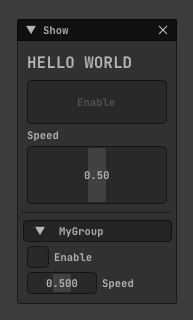
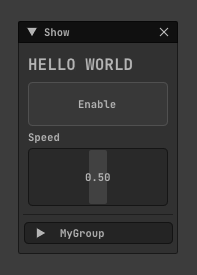
'

diff --git a/Examples/00_HelloWorld/src/ofApp.cpp b/Examples/00_HelloWorld/src/ofApp.cpp
@@ -16,7 +16,7 @@ void ofApp::draw()
             ui.Add(bEnable, OFX_IM_TOGGLE_BIG_BORDER_BLINK);
             ui.Add(speed, OFX_IM_HSLIDER);
             ui.AddSpacingSeparated();
-            ui.AddGroup(params, OFX_IM_GROUP_COLLAPSED);
+            ui.AddGroup(params, SurfingGuiGroupStyle_Collapsed);
 
             ui.EndWindow();
         }

diff --git a/Examples/00_HelloWorld/src/ofApp.h b/Examples/00_HelloWorld/src/ofApp.h
@@ -14,7 +14,7 @@ public:
     ofxSurfingGui ui;
     ofParameter<bool> bGui{ "Show", true };
 
-    ofParameter<bool> bEnable{ "Enable", false };
+    ofParameter<bool> bEnable{ "Enable", true };
     ofParameter<float> speed{ "Speed", .5f, 0.f, 1.f };
     ofParameterGroup params{ "MyGroup", bEnable, speed };
 };

diff --git a/src/ImGui/widgets/GuiConstants.h b/src/ImGui/widgets/GuiConstants.h
@@ -296,6 +296,7 @@ namespace ofxImGuiSurfing
 	// Group Style / State
 
 	//TODO: 
+	// NEW API V2
 	// To simplify the API
 	// We can use one only flag argument and multiple possibilities at the same time are allowed.
 	typedef int SurfingGuiGroupStyle;

diff --git a/README.md b/README.md
@@ -73,7 +73,7 @@ for **openFrameworks** projects.
 ofxSurfingGui ui;
 ofParameter<bool> bGui{ "Show", true };
 
-ofParameter<bool> bEnable{ "Enable", false };
+ofParameter<bool> bEnable{ "Enable", true };
 ofParameter<float> speed{ "Speed", .5f, 0.f, 1.f };
 ofParameterGroup params{ "MyGroup", bEnable, speed };
 ```
@@ -96,7 +96,7 @@ void ofApp::draw()
             ui.Add(bEnable, OFX_IM_TOGGLE_BIG_BORDER_BLINK);
             ui.Add(speed, OFX_IM_HSLIDER);
             ui.AddSpacingSeparated();
-            ui.AddGroup(params, OFX_IM_GROUP_COLLAPSED);
+            ui.AddGroup(params, SurfingGuiGroupStyle_Collapsed);
 
             ui.EndWindow();
         }
